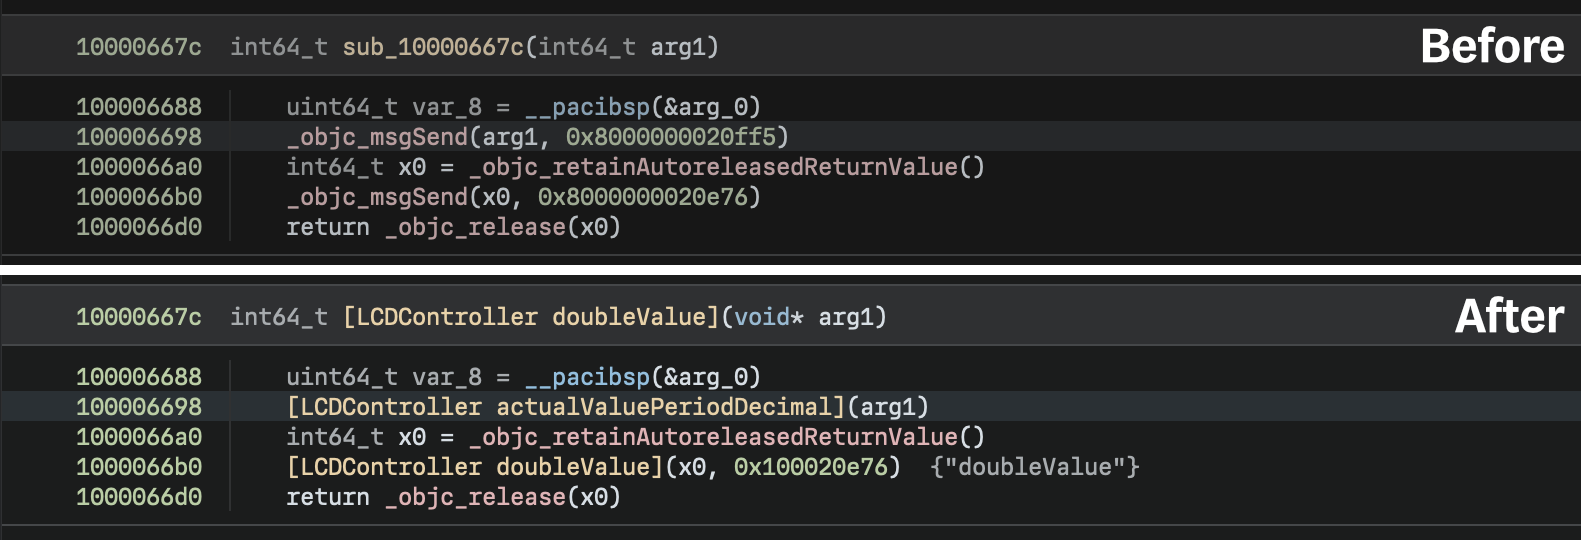
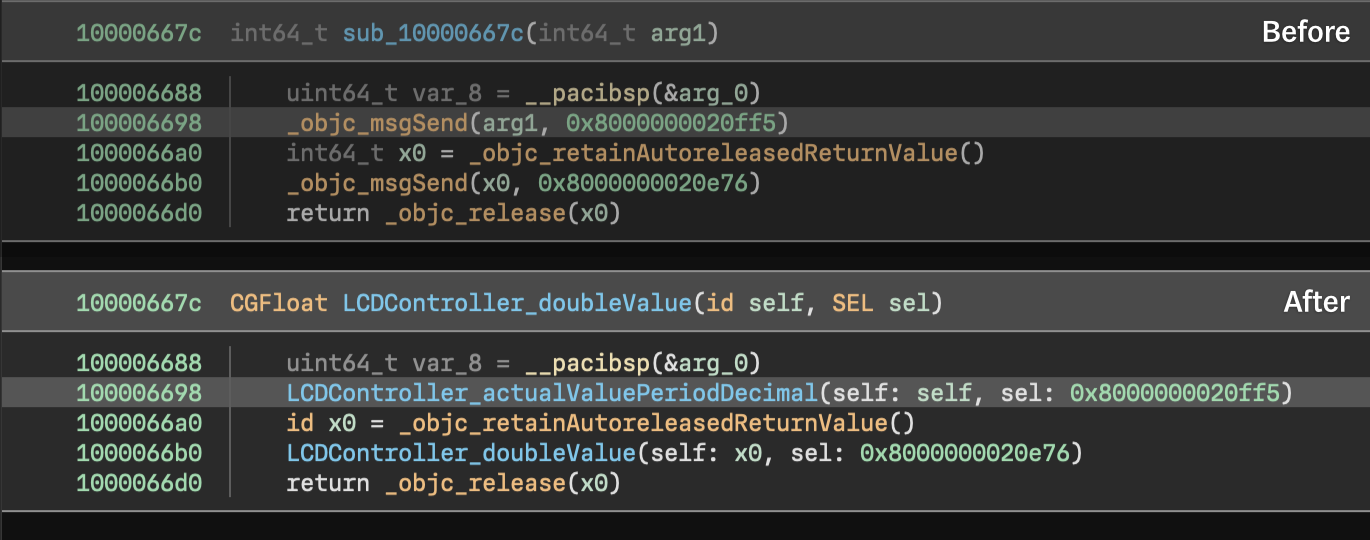
Update README for 2.0 release
Resolves: https://github.com/jonpalmisc/ObjectiveNinja/issues/31

diff --git a/README.md b/README.md
@@ -1,43 +1,54 @@
 # Objective Ninja
 
-Objective Ninja is a Binary Ninja plugin to assist in reverse engineering
-Objective-C code.
+> by [@jonpalmisc](https://twitter.com/jonpalmisc)
 
-**NOTICE: Objective Ninja is a work-in-progress.** The important stuff works,
+Objective Ninja is a Binary Ninja plugin (and workflow) which provides numerous
+features to assist in reverse engineering Objective-C code.
+
+*NOTICE: Objective Ninja is a work-in-progress. The important stuff works,
 but there are certainly areas for improvement. If you find it to be lacking or
-run into any bugs, please file an issue on GitHub.
+run into any bugs, please file an issue on GitHub.*
 
 ## Features
 
+![Before and After Screenshot](Docs/Comparison.png)
+
+> Objective-C code before and after running the Objective Ninja workflow and
+> structure analysis.
+
 Objective Ninja is still in early development, but already has a handful of
-useful features.
+useful features:
 
-### Method Call Cleanup
+- **Method Call Cleanup.** When using the Objective Ninja workflow, calls to
+  `objc_msgSend` can be replaced with direct calls to the relevant method's
+  implementation.
 
-![Before and After](Docs/Comparison.png)
+- **Function Name and Type Recovery.** Using class and method information
+  embedded in the binary, Objective Ninja can automatically apply names and type
+  information to functions for class methods.
 
-> Before/after method call cleanup & symbol creation.
+- **Structure Markup.** Data variables are automatically created for Objective-C
+  structures such as classes and method lists to enable easy navigation.
 
-Objective Ninja can replace calls to `objc_msgSend` with direct calls to the
-relevant method's implementation, as shown above. Also shown is Objective
-Ninja's ability to define symbols for class methods using class and selector
-data.
+- **Data Renderers.** Objective Ninja comes with custom data renderers for
+  common Objective-C types/patterns, such as tagged and (image-)relative
+  pointers.
 
-### Structure Analysis
+- **Improved CFString Handling.** CFStrings are analyzed; data variables are
+  created and automatically named to make dealing with CFStrings a bit more
+  pleasant.
 
-As mentioned previously, Objective Ninja parses Objective-C structures found in
-the binary. Objective Ninja will also define types for all necessary Objective-C
-structures and create data variables for them automatically.
+### Core Library
 
-## Limitations
+Large parts of Objective Ninja's Objective-C analysis are contained in a
+separate library, referred to as the "core library". This library is a plain C++
+library and has no dependency on the Binary Ninja API. As such, it can be used
+independently outside of the Objective Ninja plugin.
 
-Only the `x86_64` and `arm64` architectures are supported; support for other
-architectures is not planned.
+### Limitations
 
-## Roadmap
-
-There are numerous other features planned and on the way; see issues marked with
-the "feature" tag for more information.
+Intel (`x86_64`) and 64-bit ARM (`arm64` or `arm64e`) are the only architectures
+supported; support for other architectures is not planned.
 
 ## Build & Installation
 
@@ -45,14 +56,10 @@ Objective Ninja is currently only offered in source code form; to use Objective
 Ninja, you will need to build it yourself. The good news is that building it
 isn't very difficult.
 
-**NOTICE:** At this time (3 January 2021), the Workflows API is only available
-on the `dev` branch of the API repo. As such, the vendored submodule points to a
-recent commit on that branch. Once the Workflows API is available in Binary
-Ninja 3.0, you may modify the submodule to point to a specific commit you are
-targeting.
-
-Clone the Objective Ninja repository, initialize the Binary Ninja API submodule,
-then run CMake and build:
+Clone the Objective Ninja repository. The `master` branch should be reasonably
+stable, but if you're looking for (slightly) more stability, check out one of
+the release tags. Initialize the Binary Ninja API submodule, then run CMake and
+build:
 
 ```sh
 git clone https://github.com/jonpalmisc/ObjectiveNinja.git && cd ObjectiveNinja
@@ -62,7 +69,9 @@ cmake --build build
 ```
 
 Once complete, `libObjectiveNinja` will be available in the build folder; copy
-it to your Binary Ninja user plugins folder, then start reversing. :)
+it to your Binary Ninja user plugins folder to install it. See the [Binary Ninja
+User Documentation](https://docs.binary.ninja/guide/plugins.html) if you aren't
+sure where your user plugins folder is.
 
 ### Troubleshooting
 
@@ -83,14 +92,19 @@ cmake ... -DBN_CORE_LIBRARY="PATH_HERE"
 However, this should be determined automatically and not have to be
 configured by hand.
 
-See the [Binary Ninja User
-Documentation](https://docs.binary.ninja/guide/plugins.html) if you aren't sure
-where your user plugins folder is.
-
 ## Contributing
 
 Contributions in the form of issues and pull requests are welcome! For
 more information, see [CONTRIBUTING.md](CONTRIBUTING.md).
+
+## Credits
+
+Objective Ninja is made by [@jonpalmisc](https://twitter.com/jonpalmisc).
+However, others have made valuable contributions behind the scenes that aren't
+visible by looking at the Git history. Special thanks to
+[@noar](https://twitter.com/noarfromspace) and
+[@cynder](https://github.com/cxnder), for generously offering their time to help
+make sense of the Objective-C ABI and for sharing their knowledge.
 
 ## License
 
